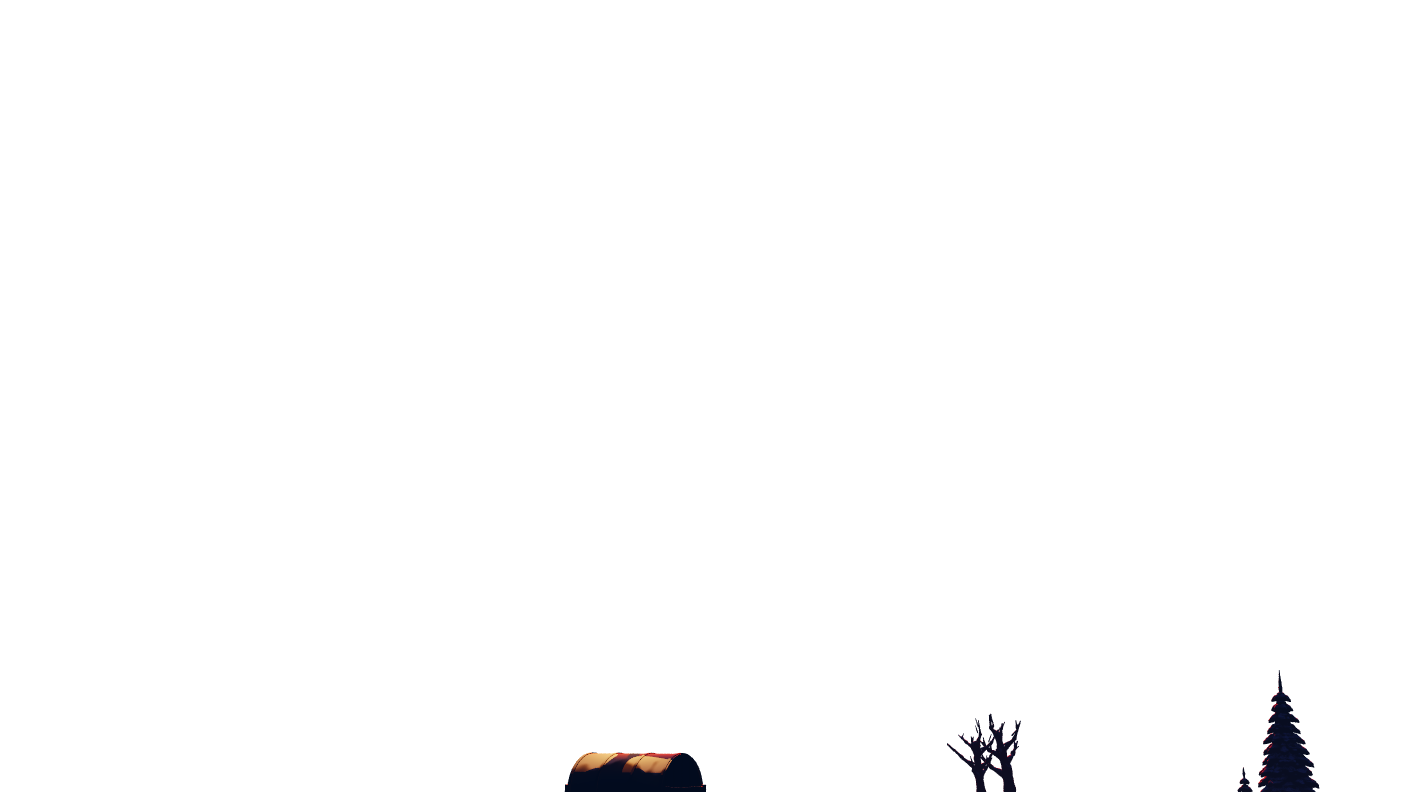
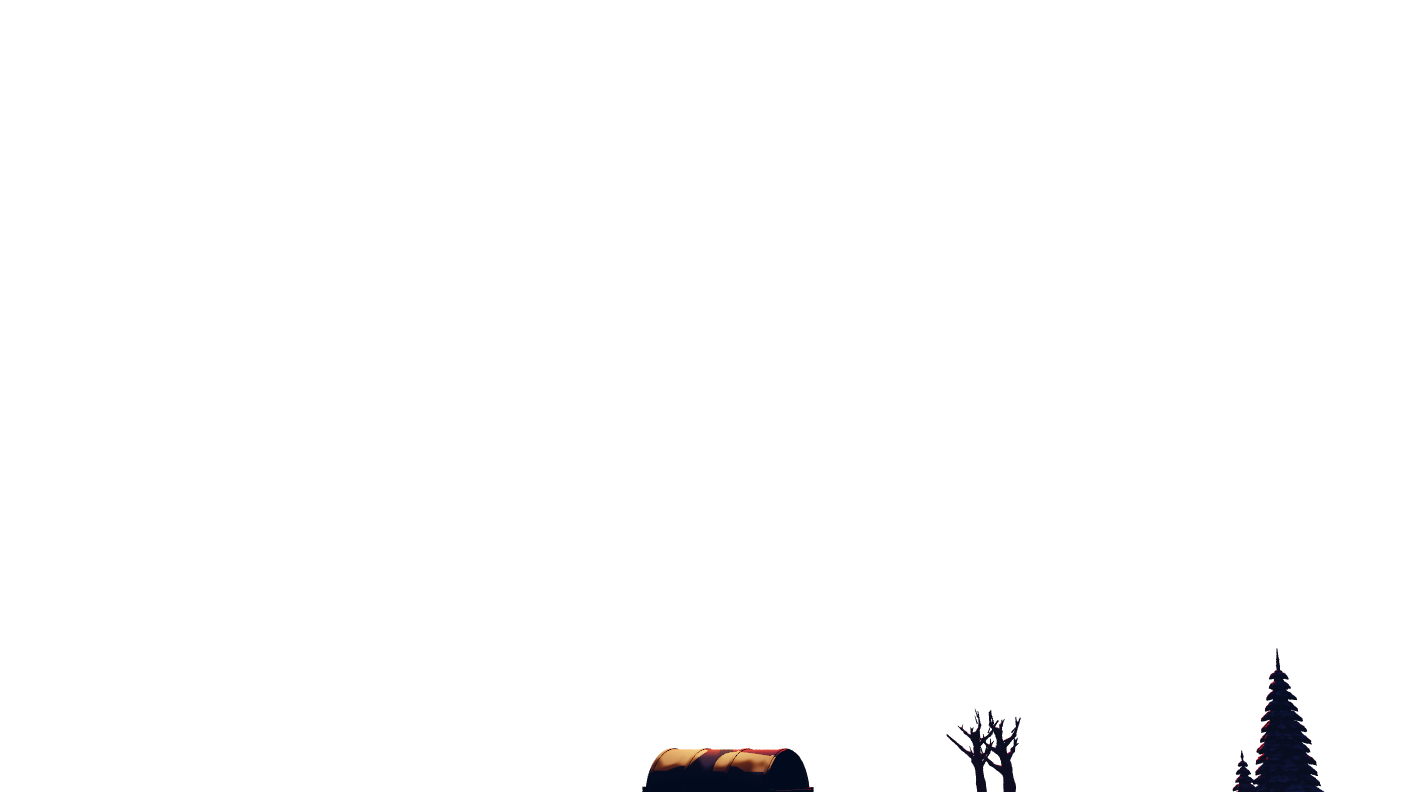
Intro en la Forja: GUION.intro (11 planos, 83 s, música y sonidos) exportada en páginas desde lo horneado en 3D
cinematicas.ts vuelve a tener la clave intro con la narración del juego
repartida, cámaras, fundidos y sonidos (campana, trueno, explosion,
rugido_jefe). exportarCinematicas usa paqueteIntro3d: la intro sale en
cinematicas/intro/pagina_N.png y cada capa trae su recorte. Los pintores de la
intro arman la toma con lo horneado; i02, i03, i07, i08 e i11 todavía no
tienen escena 3D y salen negros con la capa falta_horneado. Rehorneados i04,
i05, i09 e i10 con los arreglos. Prueba nueva: cine_intro.test.ts (guion de 11
planos y 83 s, cámara en el margen, páginas <= 10, <= 12 MB, recortes dentro).

Claude-Session: https://claude.ai/code/session_01JyeqgYaNCz4cU9RBqiqVkS

Changed region(s): [[0.4062, 0.9394, 0.5938, 1.0], [0.875, 0.8485, 0.9375, 1.0], [0.6562, 0.9091, 0.75, 1.0]]

diff --git a/src/engine/gotico/cinematicas.ts b/src/engine/gotico/cinematicas.ts
@@ -9,6 +9,8 @@ import { cuadrosHojaFuego } from './cine_fuego';
 import { PINTORES_A } from './cine_planos_a';
 import { PINTORES_B } from './cine_planos_b';
 import { PINTORES_C } from './cine_planos_c';
+import { pintoresIntro3d, paqueteIntro3d } from './cine3d_paquete';
+import { decodePng } from '../export/png';
 
 /**
  * Las cinemáticas de cierre de cada acto de Réquiem de Ceniza: tres o cuatro planos por acto (la muerte del jefe,
@@ -28,7 +30,9 @@ export type Curva = 'lineal' | 'suave';
 export interface Camara { desde: { x: number; y: number; zoom: number }; hasta: { x: number; y: number; zoom: number }; curva: Curva; sacudida?: { t: number; dur: number; fuerza: number } }
 export interface Transicion { tipo: 'corte' | 'negro' | 'fundido' | 'blanco' | 'rojo'; s: number }
 export type Particulas = 'ceniza' | 'brasas' | 'nieve' | 'lluvia';
-export interface Plano { id: string; que: string; dur: number; cam: Camara; texto: Texto; textoSegun?: Record<string, Texto>; eleccion?: 'vigdis' | 'brasa'; entrada: Transicion; salida: Transicion }
+/** Un sonido del juego que se toca en el segundo t del plano (campana, trueno, explosion, rugido_jefe). */
+export interface Sonido { t: number; efecto: string; vol?: number }
+export interface Plano { id: string; que: string; dur: number; cam: Camara; texto: Texto; textoSegun?: Record<string, Texto>; eleccion?: 'vigdis' | 'brasa'; entrada: Transicion; salida: Transicion; /** sonidos a tiempo (el reproductor los toca al pasar por t) */ sonidos?: Sonido[] }
 
 // ------------------------------------------------------------------ cámaras
 /** Margen que puede usar la cámara (el de la capa menos lo que se lleva la sacudida). */
@@ -180,12 +184,57 @@ export const GUION: Record<string, Plano[]> = {
       cam: acercar([760, 380], 1.08, [-20, 0], [10, -4]), entrada: T('fundido', 1.2), salida: T('negro', 3),
       texto: ['Reinas sobre un cielo frío. Nada te calienta ya: ni el oro, ni el recuerdo del fuego.', 'You reign over a cold sky. Nothing warms you now: not the gold, not the memory of fire.'] },
   ],
+  // la intro del juego (11 planos, 83 s, música "intro"), hasta antes del título forjado: escenas 3D horneadas (cine3d_*.ts)
+  intro: [
+    { id: 'i01_valle', que: 'Velmora antes: el valle en invierno al alba, la abadía de Santa Oria a contraluz sobre su colina nevada, el pueblo abajo con humo y faroles.', dur: 8,
+      cam: acercar([820, 250], 1.07, [-24, 8], [6, -4]), entrada: T('negro', 2), salida: T('fundido', 1),
+      texto: ['Hubo un tiempo en que el valle de Velmora solo le temía al invierno.', 'There was a time when the valley of Velmora feared only winter.'] },
+    { id: 'i02_campanas', que: 'Al alba, en el campanario: monjes de hábito y capucha tiran de las sogas a contraluz y la campana se mece.', dur: 8.5,
+      cam: acercar([700, 330], 1.06, [18, 10], [-14, -6]), entrada: T('fundido', 1), salida: T('fundido', 1),
+      sonidos: [{ t: 1.71, efecto: 'campana', vol: 0.7 }, { t: 4.0, efecto: 'campana', vol: 0.75 }, { t: 6.29, efecto: 'campana', vol: 0.8 }],
+      texto: ['Los monjes de Santa Oria tocaban las campanas al alba, y nadie preguntaba por qué la abadía se alzó sobre un pozo sellado.', 'The monks of Santa Oria rang the bells at dawn, and no one asked why the abbey was raised over a sealed well.'] },
+    { id: 'i03_pozo', que: 'Bajo la abadía, la cripta del pozo sellado: losa de hierro con cadenas y el sello de cera.', dur: 7.5,
+      cam: acercar([640, 380], 1.1, [0, -10], [0, 6]), entrada: T('fundido', 1), salida: T('negro', 1.2),
+      texto: ['Nadie recordaba el voto de los primeros hermanos: no cantar nunca de noche.', 'No one remembered the vow of the first brothers: never sing at night.'] },
+    { id: 'i04_cielo', que: 'La noche de la última cosecha: la carreta en el campo, la abadía lejos, y el cielo que se desgarra con luz roja.', dur: 6.5,
+      cam: temblar(acercar([640, 250], 1.05, [0, 14], [0, -12]), 5, 3.4, 1.9), entrada: T('negro', 1.2), salida: T('fundido', 0.6),
+      sonidos: [{ t: 1.9, efecto: 'trueno', vol: 0.9 }],
+      texto: ['La noche de la última cosecha, el cielo se abrió.', 'On the night of the last harvest, the sky opened.'] },
+    { id: 'i05_brasa', que: 'La brasa cae despacio desde la herida del cielo, con estela de fuego de Doom, hacia la abadía.', dur: 7,
+      cam: acercar([700, 330], 1.06, [12, -6], [-6, 6]), entrada: T('fundido', 0.6), salida: T('blanco', 0.35),
+      texto: ['Una brasa cayó, lenta, como si buscara algo.', 'An ember fell, slowly, as if it were searching for something.'] },
+    { id: 'i06_impacto', que: 'El impacto: la abadía arde desde adentro, fuego de Doom en el tejado, los vitrales y la puerta; los sobrevivientes miran de espaldas.', dur: 5.5,
+      cam: temblar(acercar([770, 300], 1.08, [-14, -8], [10, 4]), 14, 2.4, 0), entrada: T('blanco', 0.6), salida: T('fundido', 0.8),
+      sonidos: [{ t: 0, efecto: 'explosion', vol: 1 }, { t: 0.15, efecto: 'trueno', vol: 1 }],
+      texto: ['Cayó en el claustro.', 'It fell into the cloister.'] },
+    { id: 'i07_claustro', que: 'En el claustro nevado, la brasa hundida en el piso arde; arriba, las campanas se mecen solas.', dur: 7,
+      cam: temblar(acercar([600, 430], 1.08, [0, 6], [0, -6]), 5, 0.9, 0), entrada: T('fundido', 0.8), salida: T('fundido', 1),
+      sonidos: [{ t: 0.67, efecto: 'campana', vol: 0.85 }, { t: 3.33, efecto: 'campana', vol: 0.8 }, { t: 6.0, efecto: 'campana', vol: 0.7 }],
+      texto: ['Y las campanas doblaron solas.', 'And the bells tolled on their own.'] },
+    { id: 'i08_camposanto', que: 'Al amanecer gris, en el camposanto bajo la ceniza, los muertos se levantan secos y retorcidos.', dur: 8,
+      cam: paneo(30, -26, 6, -4, 1.04), entrada: T('fundido', 1.2), salida: T('fundido', 1),
+      texto: ['Al amanecer, los monjes ya no estaban. Y el valle empezó a arder sin fuego.', 'By dawn, the monks were gone. And the valley began to burn without fire.'] },
+    { id: 'i09_fuego', que: 'Los sobrevivientes en silueta alrededor de una hoguera de fuego de Doom entre las ruinas del pueblo.', dur: 7.5,
+      cam: acercar([640, 400], 1.07, [-10, 6], [6, -4]), entrada: T('fundido', 1), salida: T('fundido', 1),
+      texto: ['Los que sobrevivieron llevan ceniza en la piel. La llaman la Marca.', 'Those who survived carry ash on their skin. They call it the Mark.'] },
+    { id: 'i10_tu', que: 'Las ocho clases en la cresta, a contraluz de la catedral que arde: tú también.', dur: 8,
+      cam: acercar([640, 360], 1.08, [0, 10], [0, -6]), entrada: T('fundido', 1), salida: T('negro', 1),
+      texto: ['Tú también la tienes.', 'You bear it too.'] },
+    { id: 'i11_ojos', que: 'En el fondo del pozo, entre relámpagos, Ozmaren abre los ojos.', dur: 9.5,
+      cam: temblar(acercar([640, 330], 1.14), 10, 7.4, 6), entrada: T('negro', 1.2), salida: T('negro', 1.5),
+      sonidos: [{ t: 2.2, efecto: 'trueno', vol: 0.8 }, { t: 3.1, efecto: 'trueno', vol: 0.6 }, { t: 6, efecto: 'rugido_jefe', vol: 1 }],
+      texto: ['Y en el fondo del pozo, algo que esperaba mil inviernos abrió los ojos.', 'And at the bottom of the well, something that had waited a thousand winters opened its eyes.'] },
+  ],
 };
 /** Valores de cada elección (las capas con `solo_si` se dibujan solo con ese valor). */
 /** Banderas del juego para cada elección: una capa con `si` se dibuja solo con esa bandera encendida. */
 export const ELECCIONES: Record<string, string[]> = { vigdis: ['vigdis_viva', 'vigdis_muerta'], brasa: ['brasa_destruir', 'brasa_absorber'] };
 export const CLAVES_CINE = Object.keys(GUION);
-export const PINTORES: Record<string, (t: Toma) => void> = { ...PINTORES_A, ...PINTORES_B, ...PINTORES_C };
+export const PINTORES: Record<string, (t: Toma) => void> = { ...PINTORES_A, ...PINTORES_B, ...PINTORES_C, ...pintoresIntro3d(GUION.intro.map((p) => p.id)) };
+/** Música que pide cada cinemática (la intro arranca con la pista 'intro' en el segundo 0 y sigue en el título). */
+export const MUSICA_CINE: Record<string, string> = { intro: 'intro' };
+/** Sonidos del juego que pueden pedir los planos (`sonidos`). */
+export const SONIDOS_CINE = ['campana', 'trueno', 'explosion', 'rugido_jefe'];
 
 /** Pinta un plano: sus capas y sus efectos. */
 export function pintarPlano(clave: string, id: string): Toma {
@@ -410,13 +459,18 @@ export function exportarCinematicas(o: OpcExportar): Record<string, unknown> {
   const vineta = vinetaCine();
   for (const clave of o.claves ?? CLAVES_CINE) {
     const planos: unknown[] = [];
+    // la intro: lo horneado en 3D, empaquetado en pocas páginas; cada capa con su recorte
+    const paquete = clave === 'intro' ? paqueteIntro3d(GUION.intro.map((p) => p.id), decodePng) : null;
+    paquete?.paginas.forEach((pg, i) => o.poner(`cinematicas/intro/pagina_${i + 1}.png`, pg));
     GUION[clave].forEach((p, n) => {
       av(`cinemática ${clave} ${p.id}`);
-      const t = pintarPlano(clave, p.id), capas = capasFinales(t);
+      const t = pintarPlano(clave, p.id), capas = capasFinales(t), pq = paquete?.planos[p.id];
       const archivoDe = (c: CapaFinal) => (c.hoja ? `cinematicas/fx/${c.hoja}.png` : `cinematicas/${clave}/${p.id}_${c.id}.png`);
-      for (const c of capas) if (c.img) o.poner(archivoDe(c), aRaster(c.img, !!c.opaca));
+      if (!paquete) for (const c of capas) if (c.img) o.poner(archivoDe(c), aRaster(c.img, !!c.opaca));
       const json = (lista: CapaFinal[]) => [
-        ...lista.map((c) => ({ id: c.id, archivo: archivoDe(c), x: c.x, y: c.y, w: c.w, h: c.h, paralaje: c.paralaje, mezcla: c.mezcla, ...(c.alfa !== undefined ? { alfa: c.alfa } : {}), ...(c.anim ? { anim: c.anim } : {}), ...(c.soloSi ? { si: c.soloSi } : {}) })),
+        ...(paquete
+          ? (pq?.capas ?? []).map((c) => ({ id: c.id, archivo: `cinematicas/intro/pagina_${c.pagina + 1}.png`, recorte: c.recorte, x: c.x, y: c.y, w: c.w, h: c.h, paralaje: c.paralaje, mezcla: c.mezcla, ...(c.anim ? { anim: c.anim } : {}) }))
+          : lista.map((c) => ({ id: c.id, archivo: archivoDe(c), x: c.x, y: c.y, w: c.w, h: c.h, paralaje: c.paralaje, mezcla: c.mezcla, ...(c.alfa !== undefined ? { alfa: c.alfa } : {}), ...(c.anim ? { anim: c.anim } : {}), ...(c.soloSi ? { si: c.soloSi } : {}) }))),
         { id: 'vineta', archivo: 'cinematicas/vineta.png', x: MX, y: MY, w: 1280, h: 720, paralaje: 0, mezcla: 'normal' },
       ];
       const plano: Record<string, unknown> = {
@@ -426,12 +480,13 @@ export function exportarCinematicas(o: OpcExportar): Record<string, unknown> {
         ...(p.textoSegun ? { narracion_si: Object.fromEntries(Object.entries(p.textoSegun).map(([k, v]) => [k, { es: v[0], en: v[1] }])) } : {}),
         fundido: { entra: p.entrada.s, sale: p.salida.s, ...(p.entrada.tipo !== 'negro' && p.entrada.tipo !== 'fundido' ? { color_entra: p.entrada.tipo } : {}), ...(p.salida.tipo !== 'negro' && p.salida.tipo !== 'fundido' ? { color_sale: p.salida.tipo } : {}) },
         ...(t.particulas ? { particulas: t.particulas } : {}),
+        ...(p.sonidos ? { sonidos: p.sonidos } : {}),
       };
       const valores = p.eleccion ? ELECCIONES[p.eleccion] : [undefined];
       planos.push(plano);
       if (o.vista) for (const v of valores) o.vista(clave, n, p, v, componerPlano(capas, p, { valor: v, vineta }));
     });
-    out[clave] = { planos };
+    out[clave] = { ...(MUSICA_CINE[clave] ? { musica: MUSICA_CINE[clave] } : {}), planos };
   }
   return out;
 }

diff --git a/src/engine/__tests__/cine_intro.test.ts b/src/engine/__tests__/cine_intro.test.ts
@@ -1,0 +1,61 @@
+import { describe, it, expect } from 'vitest';
+import { GUION, PINTORES, CAPA_CINE, MUSICA_CINE, SONIDOS_CINE, exportarCinematicas } from '../gotico/cinematicas';
+import { PAGINA_MAX, PAGINA_MPX } from '../gotico/cine3d_paquete';
+import { encodePng } from '../export/png';
+import type { Raster } from '../core/raster';
+
+/** El guion de la intro del juego (src/mundo/actos.ts, INTRO): la narración no se reescribe, se reparte en los planos. */
+const INTRO_JUEGO = [
+  'Hubo un tiempo en que el valle de Velmora solo le temía al invierno.',
+  'Los monjes de Santa Oria tocaban las campanas al alba, y nadie preguntaba por qué la abadía se alzó sobre un pozo sellado.',
+  'Nadie recordaba el voto de los primeros hermanos: no cantar nunca de noche.',
+  'La noche de la última cosecha, el cielo se abrió.',
+  'Una brasa cayó, lenta, como si buscara algo.',
+  'Cayó en el claustro. Y las campanas doblaron solas.',
+  'Al amanecer, los monjes ya no estaban. Y el valle empezó a arder sin fuego.',
+  'Los que sobrevivieron llevan ceniza en la piel. La llaman la Marca.',
+  'Tú también la tienes.',
+  'Y en el fondo del pozo, algo que esperaba mil inviernos abrió los ojos.',
+];
+const intro = GUION.intro;
+
+describe('la intro: guion', () => {
+  it('11 planos, ~83 s, la narración del juego entera, música y sonidos conocidos', () => {
+    expect(intro).toHaveLength(11);
+    expect(intro.reduce((a, p) => a + p.dur, 0)).toBeCloseTo(83, 0);
+    for (const p of intro) expect(PINTORES[`intro/${p.id}`], p.id).toBeTruthy();
+    expect(intro.map((p) => p.texto[0]).join(' ')).toBe(INTRO_JUEGO.join(' '));
+    for (const p of intro) expect(p.texto[1].length, p.id).toBeGreaterThan(5);
+    expect(MUSICA_CINE.intro).toBe('intro');
+    for (const p of intro) for (const s of p.sonidos ?? []) { expect(SONIDOS_CINE).toContain(s.efecto); expect(s.t).toBeGreaterThanOrEqual(0); expect(s.t).toBeLessThan(p.dur); }
+  });
+  it('la cámara con su sacudida no se sale del margen de la capa', () => {
+    for (const p of intro) {
+      const f = p.cam.sacudida?.fuerza ?? 0;
+      for (const c of [p.cam.desde, p.cam.hasta]) { expect(Math.abs(c.x) + f, p.id).toBeLessThanOrEqual(CAPA_CINE.margen_x); expect(Math.abs(c.y) + f, p.id).toBeLessThanOrEqual(CAPA_CINE.margen_y); }
+    }
+  });
+});
+
+describe('la intro: exportar empaquetada', () => {
+  it('páginas: 10 archivos como mucho, 12 MB o menos, ninguna de más de 4096 px ni 16 Mpx; cada capa con su recorte, la música y los sonidos', () => {
+    const pags = new Map<string, Raster>();
+    const sec = exportarCinematicas({ poner: (n, r) => { if (n.startsWith('cinematicas/intro/')) pags.set(n, r); }, claves: ['intro'] }) as Record<string, any>;
+    expect(sec.intro.musica).toBe('intro');
+    expect(sec.intro.planos).toHaveLength(11);
+    expect(pags.size).toBeLessThanOrEqual(10);
+    let bytes = 0;
+    for (const [n, r] of pags) { expect(Math.max(r.w, r.h), n).toBeLessThanOrEqual(PAGINA_MAX); expect(r.w * r.h, n).toBeLessThanOrEqual(PAGINA_MPX); bytes += encodePng(r).length; }
+    expect(bytes / 1e6).toBeLessThanOrEqual(12);
+    for (const p of sec.intro.planos) {
+      expect(p.narracion.es && p.narracion.en).toBeTruthy();
+      for (const c of p.capas) {
+        if (c.id === 'vineta') continue;
+        const r = pags.get(c.archivo)!, [sx, sy, sw, sh] = c.recorte;
+        expect(r, c.archivo).toBeTruthy();
+        expect(sx >= 0 && sy >= 0 && sx + sw <= r.w && sy + sh <= r.h, `${p.id}/${c.id}`).toBe(true);
+      }
+    }
+    expect(sec.intro.planos.find((p: any) => p.id === 'i06_impacto').sonidos[0].efecto).toBe('explosion');
+  }, 900000);
+});

diff --git a/src/engine/gotico/cine3d_paquete.ts b/src/engine/gotico/cine3d_paquete.ts
@@ -1,5 +1,7 @@
 import { createRaster, type Raster } from '../core/raster';
-import { leerHorneado, type MetaHorneado } from './cine3d_toma';
+import { leerHorneado, tomaDeHorneado, type MetaHorneado } from './cine3d_toma';
+import type { Toma } from './cine_toma';
+import { decodePng } from '../export/png';
 
 /**
  * Empaquetado de la intro 3D para el juego (que está al borde de su límite de archivos): todas las capas horneadas de
@@ -46,4 +48,17 @@ export function paqueteIntro3d(ids: string[], decodificar: (b: Uint8Array) => Ra
   const { paginas, donde } = empaquetar(imgs);
   for (const { plano, c, i } of capas) { const [pg, x, y] = donde[i]; planos[plano].capas.push({ ...c, pagina: pg, recorte: [x, y, imgs[i].w, imgs[i].h] }); }
   return { paginas, planos };
+}
+
+/**
+ * Los pintores de la intro para el reproductor de control (cinematicas.ts): cada plano arma su toma con lo horneado. Un
+ * plano que todavía no tiene horneado sale negro, con una capa que lo avisa (`falta_horneado`).
+ */
+export function pintoresIntro3d(ids: string[]): Record<string, (t: Toma) => void> {
+  return Object.fromEntries(ids.map((id) => [`intro/${id}`, (t: Toma) => {
+    const h = leerHorneado(id, decodePng);
+    if (h) { tomaDeHorneado(t, h); return; }
+    const L = t.capa('falta_horneado', 0, 1, 'normal', { opaca: true, notas: `falta hornear ${id} (scripts/gotico-cine3d.ts)` });
+    for (let i = 3; i < L.d.length; i += 4) L.d[i] = 1;
+  }]));
 }
